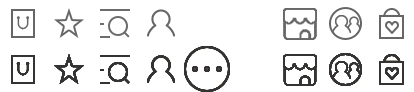
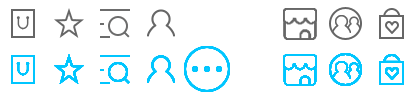
样式修改

diff --git a/template/wap/default/userApi1.php b/template/wap/default/userApi1.php
@@ -12,8 +12,22 @@
     <script type="text/javascript" src="<?php echo STATIC_URL;?>x-admin/lib/layui/layui.js" charset="utf-8"></script>
     <script type="text/javascript" src="<?php echo STATIC_URL;?>js/clipboard.min.js" charset="utf-8"></script>
     <style type="text/css">
-      .api_block{/*border:1px solid red;background: white;height:50px;*/width: 100%;}
-      .api_span{border:1px solid red;background:white;height:40px;line-height: 40px;}
+      .layui-container{padding: 0 8px;}
+      .api_block{padding: 10px 0px;background: white; border-radius: 5px;margin-top:5px;}
+      .api_line{border-top:1px solid #ddd;}
+      .api_span{background:white;height:40px;line-height: 40px;color: #333;display: flex;align-items: center;}
+      .api_attr{display: block;float:left;margin:auto 10px;width: 45px;text-align: right;}
+      .api_input{display: block;float:left;width: 65%;overflow:scroll;}
+      .api_btn{float:right;margin-left:10px;height:25px;line-height: 25px;padding:2px 6px;border-radius: 3px;background: #41c7db85;}
+
+      /*接口样式*/
+      .inter{background: white;margin-top:5px;border-radius: 5px;padding:10px 0px;margin-bottom: 30px;}
+      .inter_block{border:1px solid #29aee7;border-radius:4px;margin:15px 5px;display: flex;align-items: center;padding:8px;flex-direction: column;}
+      .inter_row{/*border:1px solid red;*/width: 100%;}
+      .inter_img{background-image: url(../template/wap/default/images/logo.jpg);background-size: 40px 40px;background-repeat: no-repeat;display: block;width: 40px;height: 40px;float: left;}
+      .inter_row_attr{display: flex;justify-content: space-around;padding-left: 45px}
+      .inter_attr{font-size:12px; color:#999;}
+      .inter_num{font-size:14px;color:#333;}
 
     </style>
      <script type="text/javascript" src="<?php echo STATIC_URL;?>js/common.js" charset="utf-8"></script>
@@ -27,25 +41,49 @@
     </script>
 </head>
 
-<body style="background-color: rgba(240,240,240,.3);">
+<body style="background-color: #f2f2f2;">
   <header class="lk-bar lk-bar-nav" style="background-color: #FFF">
       <i class="iconfont">&#xe697;</i>
       <h1 class="lk-title">api接口</h1>
   </header>
   <div class="layui-container" style="padding-top:70px">
+    <div style="font-size: 17px;">接口账号</div>
     <div class="api_block">
       <div class="api_span">
-        <span style="">appid:</span>
-        <span>15703216869</span>
-        <span>复制</span>
+        <span class="api_attr">appid:</span>
+        <span class="api_input">15703216869</span>
+        <span class="api_btn">复制</span>
       </div>
+      <div class="api_line"></div>
       <div class="api_span">
-        <span>key:</span>
-        <span>aa139b77c50b94a84a70a2feeca25d41</span>
-        <span>复制</span>
+        <span class="api_attr">key:</span>
+        <span class="api_input">aa139b77c50b94a84a70a2feeca25d41</span>
+        <span class="api_btn">复制</span>
       </div>
     </div>
+    <!-- 接口开关 -->
+    <div style="margin-top: 80px;font-size: 17px;">接口管理</div>
+    <div class="inter" >
+      <?php for($i=0;$i<5;$i++){ ?>
+      <div class="inter_block">
+        <div class="inter_row" style="height: 40px;line-height: 40px;">
+          <span class="inter_img"></span>
+          <span style="color:#333;font-size: 17px;margin-left: 5px;">会员卡支付</span>
+          <span style="float: right;border:1px solid #41c7db85;">
+            <!-- <div style="display: block;width: 15px;height: 10px;border:1px solid red;"></div> -->
+            开关
+          </span>
+        </div>
+        <div class="inter_row inter_row_attr">
+          <span class="inter_attr">组合支付：<i class="inter_num">￥123.45</i></span>
+          <span class="inter_attr">余额支付：<i class="inter_num">￥123.45</i></span>
+        </div>
+      </div>
+      <?php } ?>
+    </div>
+
   </div>
+
 
 </body>
 

diff --git a/template/wap/default/userApi.php b/template/wap/default/userApi.php
@@ -15,7 +15,7 @@
       .layui-input-block{margin-right: 50px;}
       .layui-input{border:0; padding-left:6px;}
       .layui-form-item .layui-input-inline.us-input-inline{display: inline-block; float: none; left: 0;  width: auto; margin: 0; padding: 10px 0 10px 0px;}
-      .layui-form-item{margin: 0; line-height: 45px;}
+      .layui-form-item{margin: 0; line-height: 45px;color: #333;}
       .us-btn{background-color: #FFF; color:#FF5722; font-weight: 500}
       .us-btn:hover{color:#FF5722;}
       .layui-form-item .layui-form-label{margin-top:10px;}
@@ -25,8 +25,7 @@
 
       .us-checkbox{background-color: #FFF; color:#000; width: 12px; height: 12px; border:1px solid #ddd; margin:10px; font-size:9px;padding:2px; }
       .layui-layer-btn{background:none;}
-      .layui-form-item button{padding:2px;border-radius: 6px;background: #29aee7;width: 45px;}
-      .api_state{border:1px solid red;width:100%;height:40px;margin-top: 10px;background: #FFF;}
+      .layui-form-item button{padding:2px;border-radius: 6px;background: #41c7db85;width: 45px;border:0px;}
     </style>
      <script type="text/javascript" src="<?php echo STATIC_URL;?>js/common.js" charset="utf-8"></script>
      <script type="text/javascript">
@@ -75,17 +74,13 @@
                 <input type="text" id="key" name="key" length="16" placeholder="<?php echo $userInfo['mid_key'] ?>" autocomplete="off" class="layui-input" value="<?php echo $userInfo['mid_key']; ?>" >
             </div>
             <button id="copy_key" data-clipboard-target="#key">复制</button>
-      <?php } ?>
         </div>
+      <?php } ?>
   </div>
 </div>
 <?php if(empty($userInfo['mid'])){ ?>
   <div class="layui-row">
   <button id="layui-btn" class="layui-btn" style="width:100%;">申请商户号</button>
-  </div>
-<?php }else{ ?>
-  <div class="api_state">
-      此账号用于优惠券余额和组合支付使用，请妥善保管此账号
   </div>
 <?php } ?>
 </form>

diff --git a/template/wap/default/card_sell.php b/template/wap/default/card_sell.php
@@ -60,7 +60,7 @@
         .item-buy{align-self:center;  border:1px solid #FF5722; width:45px; border-radius: 50px; line-height: 45px; text-align: center;}
         .register div{width:20%;height:38px;line-height:38px;margin-left:20px;}
         #action {
-            color: #333;
+            color: #29Aee7;
             border-bottom: 1px solid #29Aee7;
         }
         .buy-order{
@@ -170,7 +170,7 @@
         var id = "<?php echo $platformInfo['id'] ?>";
         var data = {"price":price,"num":num,"id":id,"limitNum":limit,"type":"register"};
         $.post("./card_sell.php",data,function(res){
-            //console.log(res);
+            console.log(res);
             //layer.closeAll("loading");
             if(!res.res){
                 mui.toast(res.msg);

diff --git a/template/wap/default/theme/index.php b/template/wap/default/theme/index.php
@@ -15,6 +15,7 @@
           z-index:2;
           overflow:auto;
         }
+        .lk-titles a{font-size: 15px;}
         .lk-ti{
           /*width: 25%;*/
           width: 62px;
@@ -23,7 +24,7 @@
           color: #999;
         }
         .action{
-          color: rgba(76, 76, 73, 1); 
+          color: #29aee7; 
           border-bottom: 1px solid #29aee7;
         }
         .stores{
@@ -56,7 +57,7 @@
            /* border-right: 1px dashed #999; */
         }
         .price div{
-            line-height: 40px;
+            line-height: 36px;
             margin-left: 10px;
             text-align: left;
 

diff --git a/template/wap/default/card_package.php b/template/wap/default/card_package.php
@@ -23,7 +23,7 @@
                     background: url("/static/sweetalert/images/vs_icon@2x.png") no-repeat;
                     background-size: 110% 110%;
                 }
-        .card-handle{width:20%; border-right:1px solid #ded5d5; line-height: 30px; margin:5px 0; text-align: center; color: #333;}
+        .card-handle{width:20%; border-right:1px solid #ded5d5; line-height: 30px; margin:5px 0; text-align: center; color: #666;}
         hr.cut-off-rule{margin:10px 0;}
         .no-border{
             border-right: 0px;

diff --git a/template/wap/default/public_menu.php b/template/wap/default/public_menu.php
@@ -33,14 +33,14 @@ height: 50px;
 padding-top: 4px;
 color: #999;
 font-size: 12px;
-background-color: #F9F5F5;
+background-color: #FFF;
 text-align: center;
 }
 .wx_nav a:active, .wx_nav a.on {
-	color: #333;
+	color: #29aee7;
 }
 .wx_nav a:before {
-background-image: url(../template/wap/default/images/icon_nav.png?r=23);
+background-image: url(../template/wap/default/images/icon_nav.png?r=25);
 background-repeat: no-repeat;
 background-size: 207px 46px;
 -webkit-background-size: 207px 46px;

diff --git a/template/wap/default/orderList.php b/template/wap/default/orderList.php
@@ -26,7 +26,7 @@
     .layui-tab-content{padding:0px;margin-top: 10px;}
     .layui-tab{margin:0;}
     .layui-tab-title{color: #999;}
-    .layui-tab-brief>.layui-tab-title .layui-this{color:#333;}
+    .layui-tab-brief>.layui-tab-title .layui-this{color:#29aee7;}
     .layui-tab-brief>.layui-tab-title .layui-this:after{border-bottom: 1px solid #29aee7;}
 
     .content{border:1px solid red;height: 600px;}

diff --git a/template/wap/default/card_buy.php b/template/wap/default/card_buy.php
@@ -60,7 +60,7 @@
         .item-buy{align-self:center;  border:1px solid #FF5722; width:45px; border-radius: 50px; line-height: 45px; text-align: center;}
         .register div{width:20%;height:38px;line-height:38px;margin-left:20px;}
         #action {
-            color: #333;
+            color: #29Aee7;
             border-bottom: 1px solid #29Aee7;
         }
         .buy-order{

diff --git a/template/wap/default/card_orderlist.php b/template/wap/default/card_orderlist.php
@@ -25,7 +25,7 @@
         .s{font-size:16px;color:#FF5722}
         .total{color:#393D49;font-weight: 550; font-size:16px}
          #action {
-            color: #333;
+            color: #29Aee7;
             border-bottom: 1px solid #29Aee7;
         }
         .title{display: flex;padding: 0 5px;line-height: 35px;color: #999;}

diff --git a/template/wap/default/card_order.php b/template/wap/default/card_order.php
@@ -25,7 +25,7 @@
         .s{font-size:16px;color:#FF5722}
         .total{color:#393D49;font-weight: 550; font-size:16px}
         #action {
-            color: #333;
+            color: #29Aee7;
             border-bottom: 1px solid #29Aee7;
         }
         .title{display: flex;padding: 0 5px;line-height: 35px;color: #999;}
